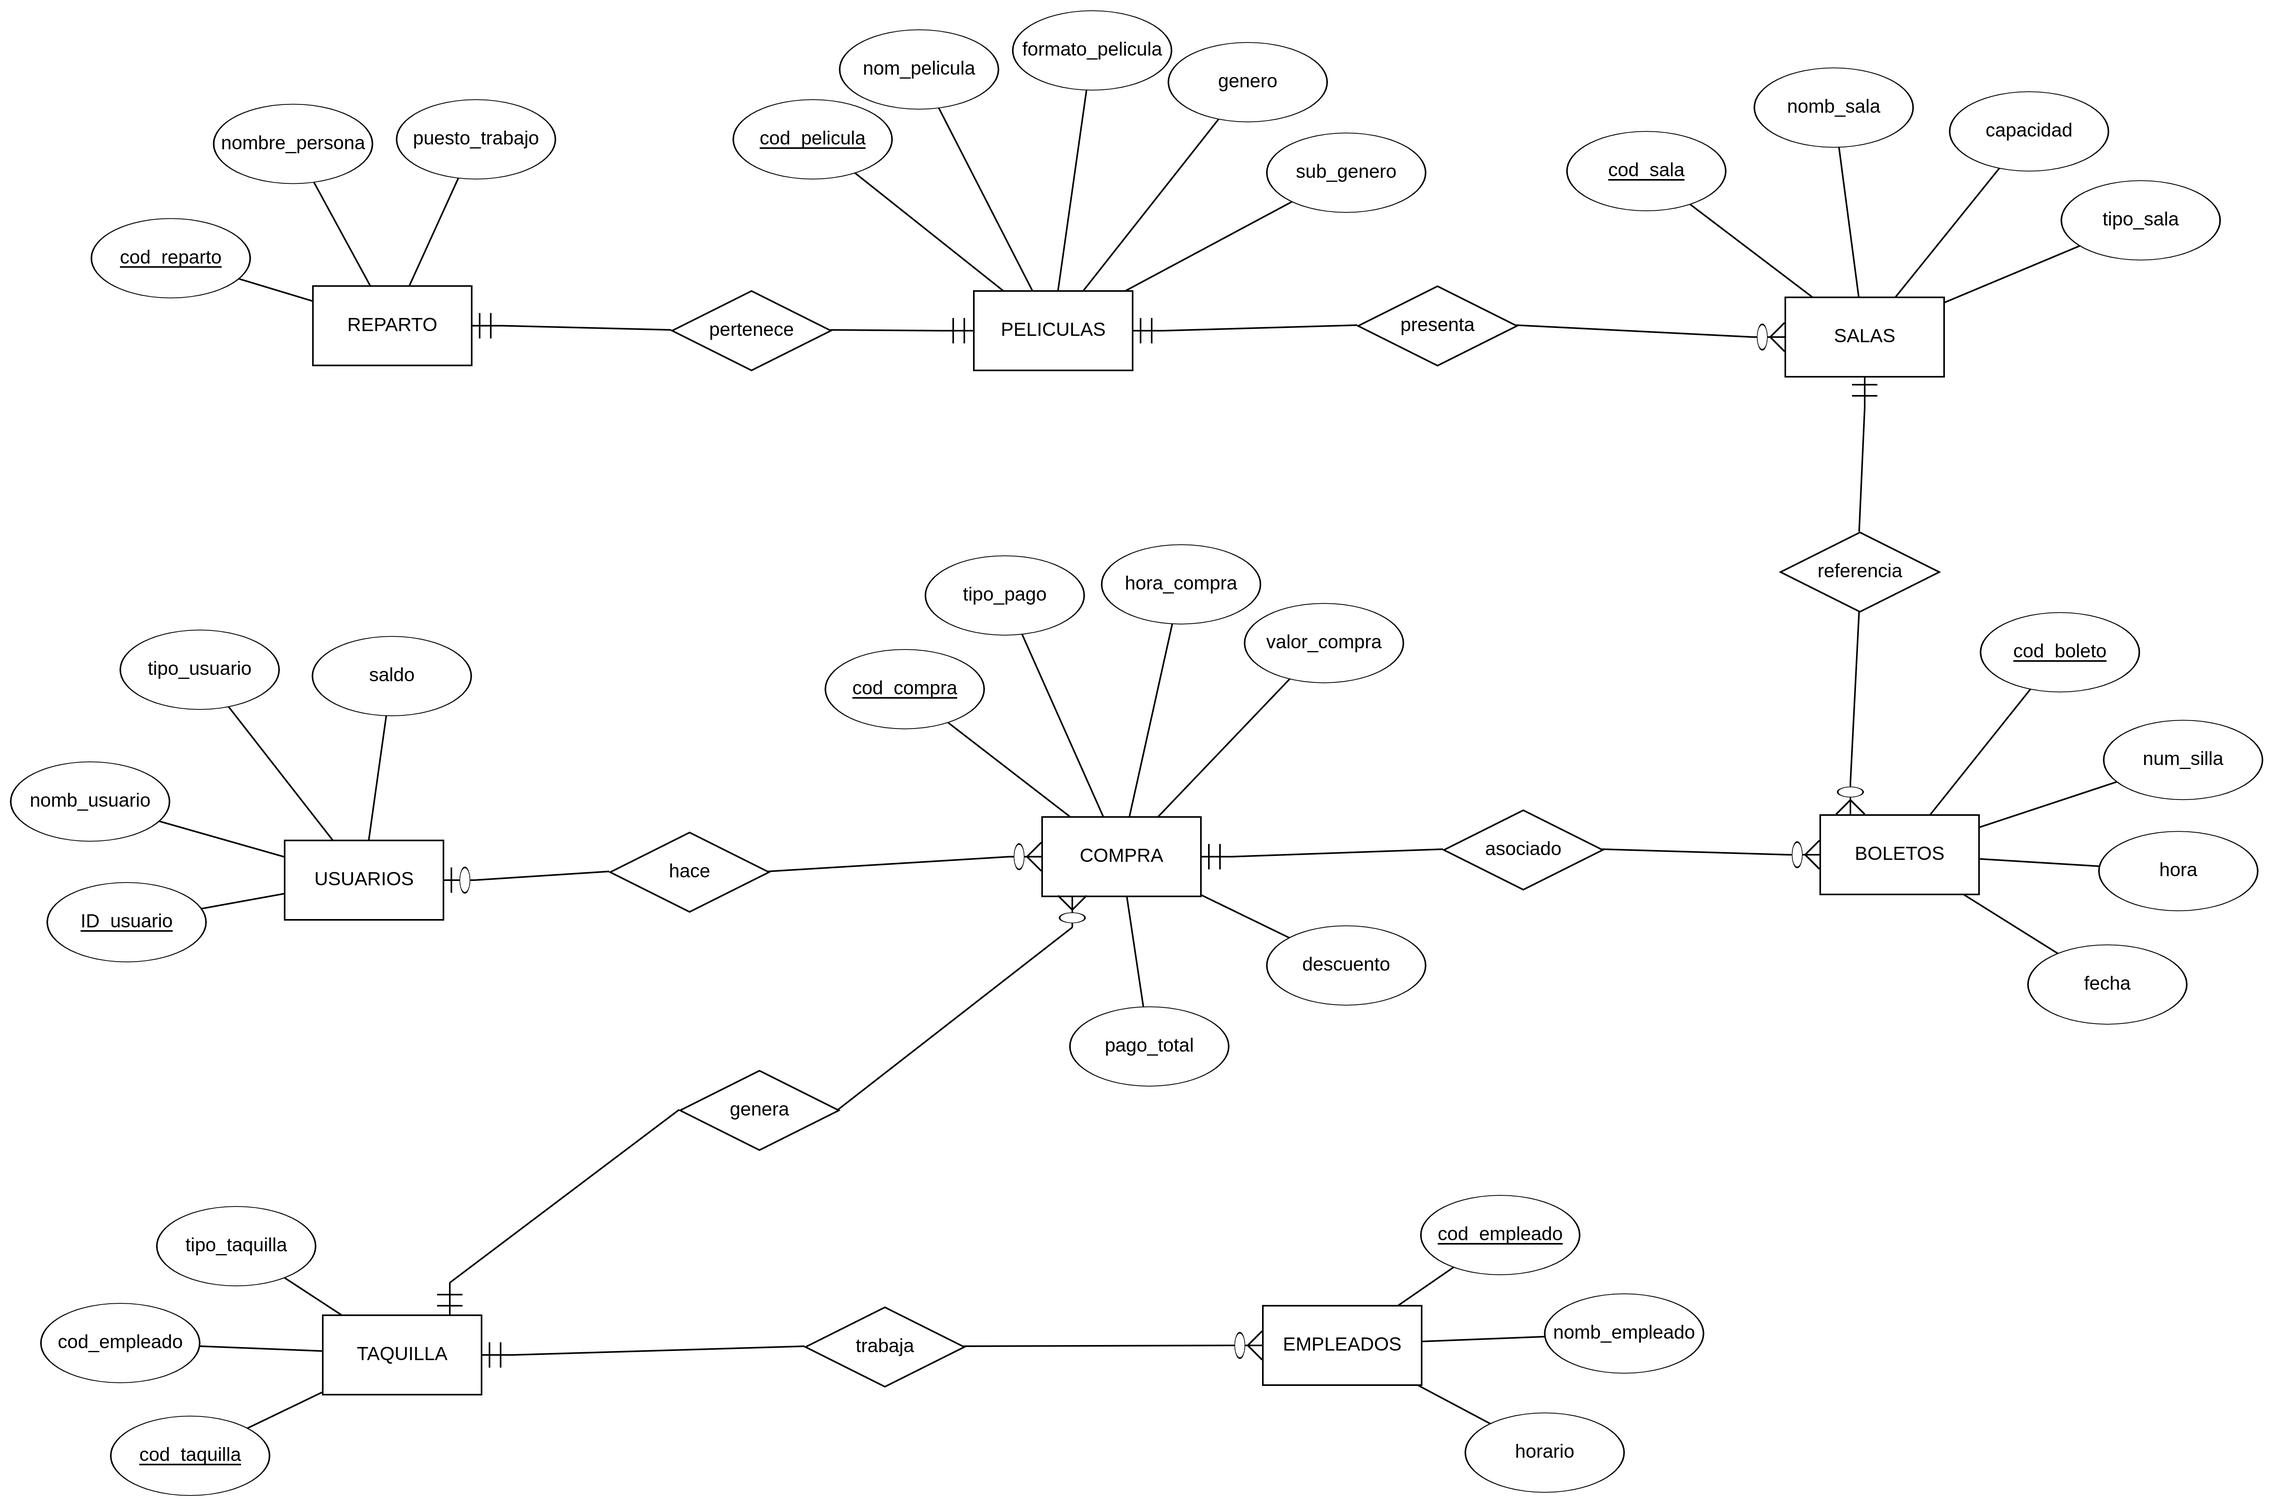
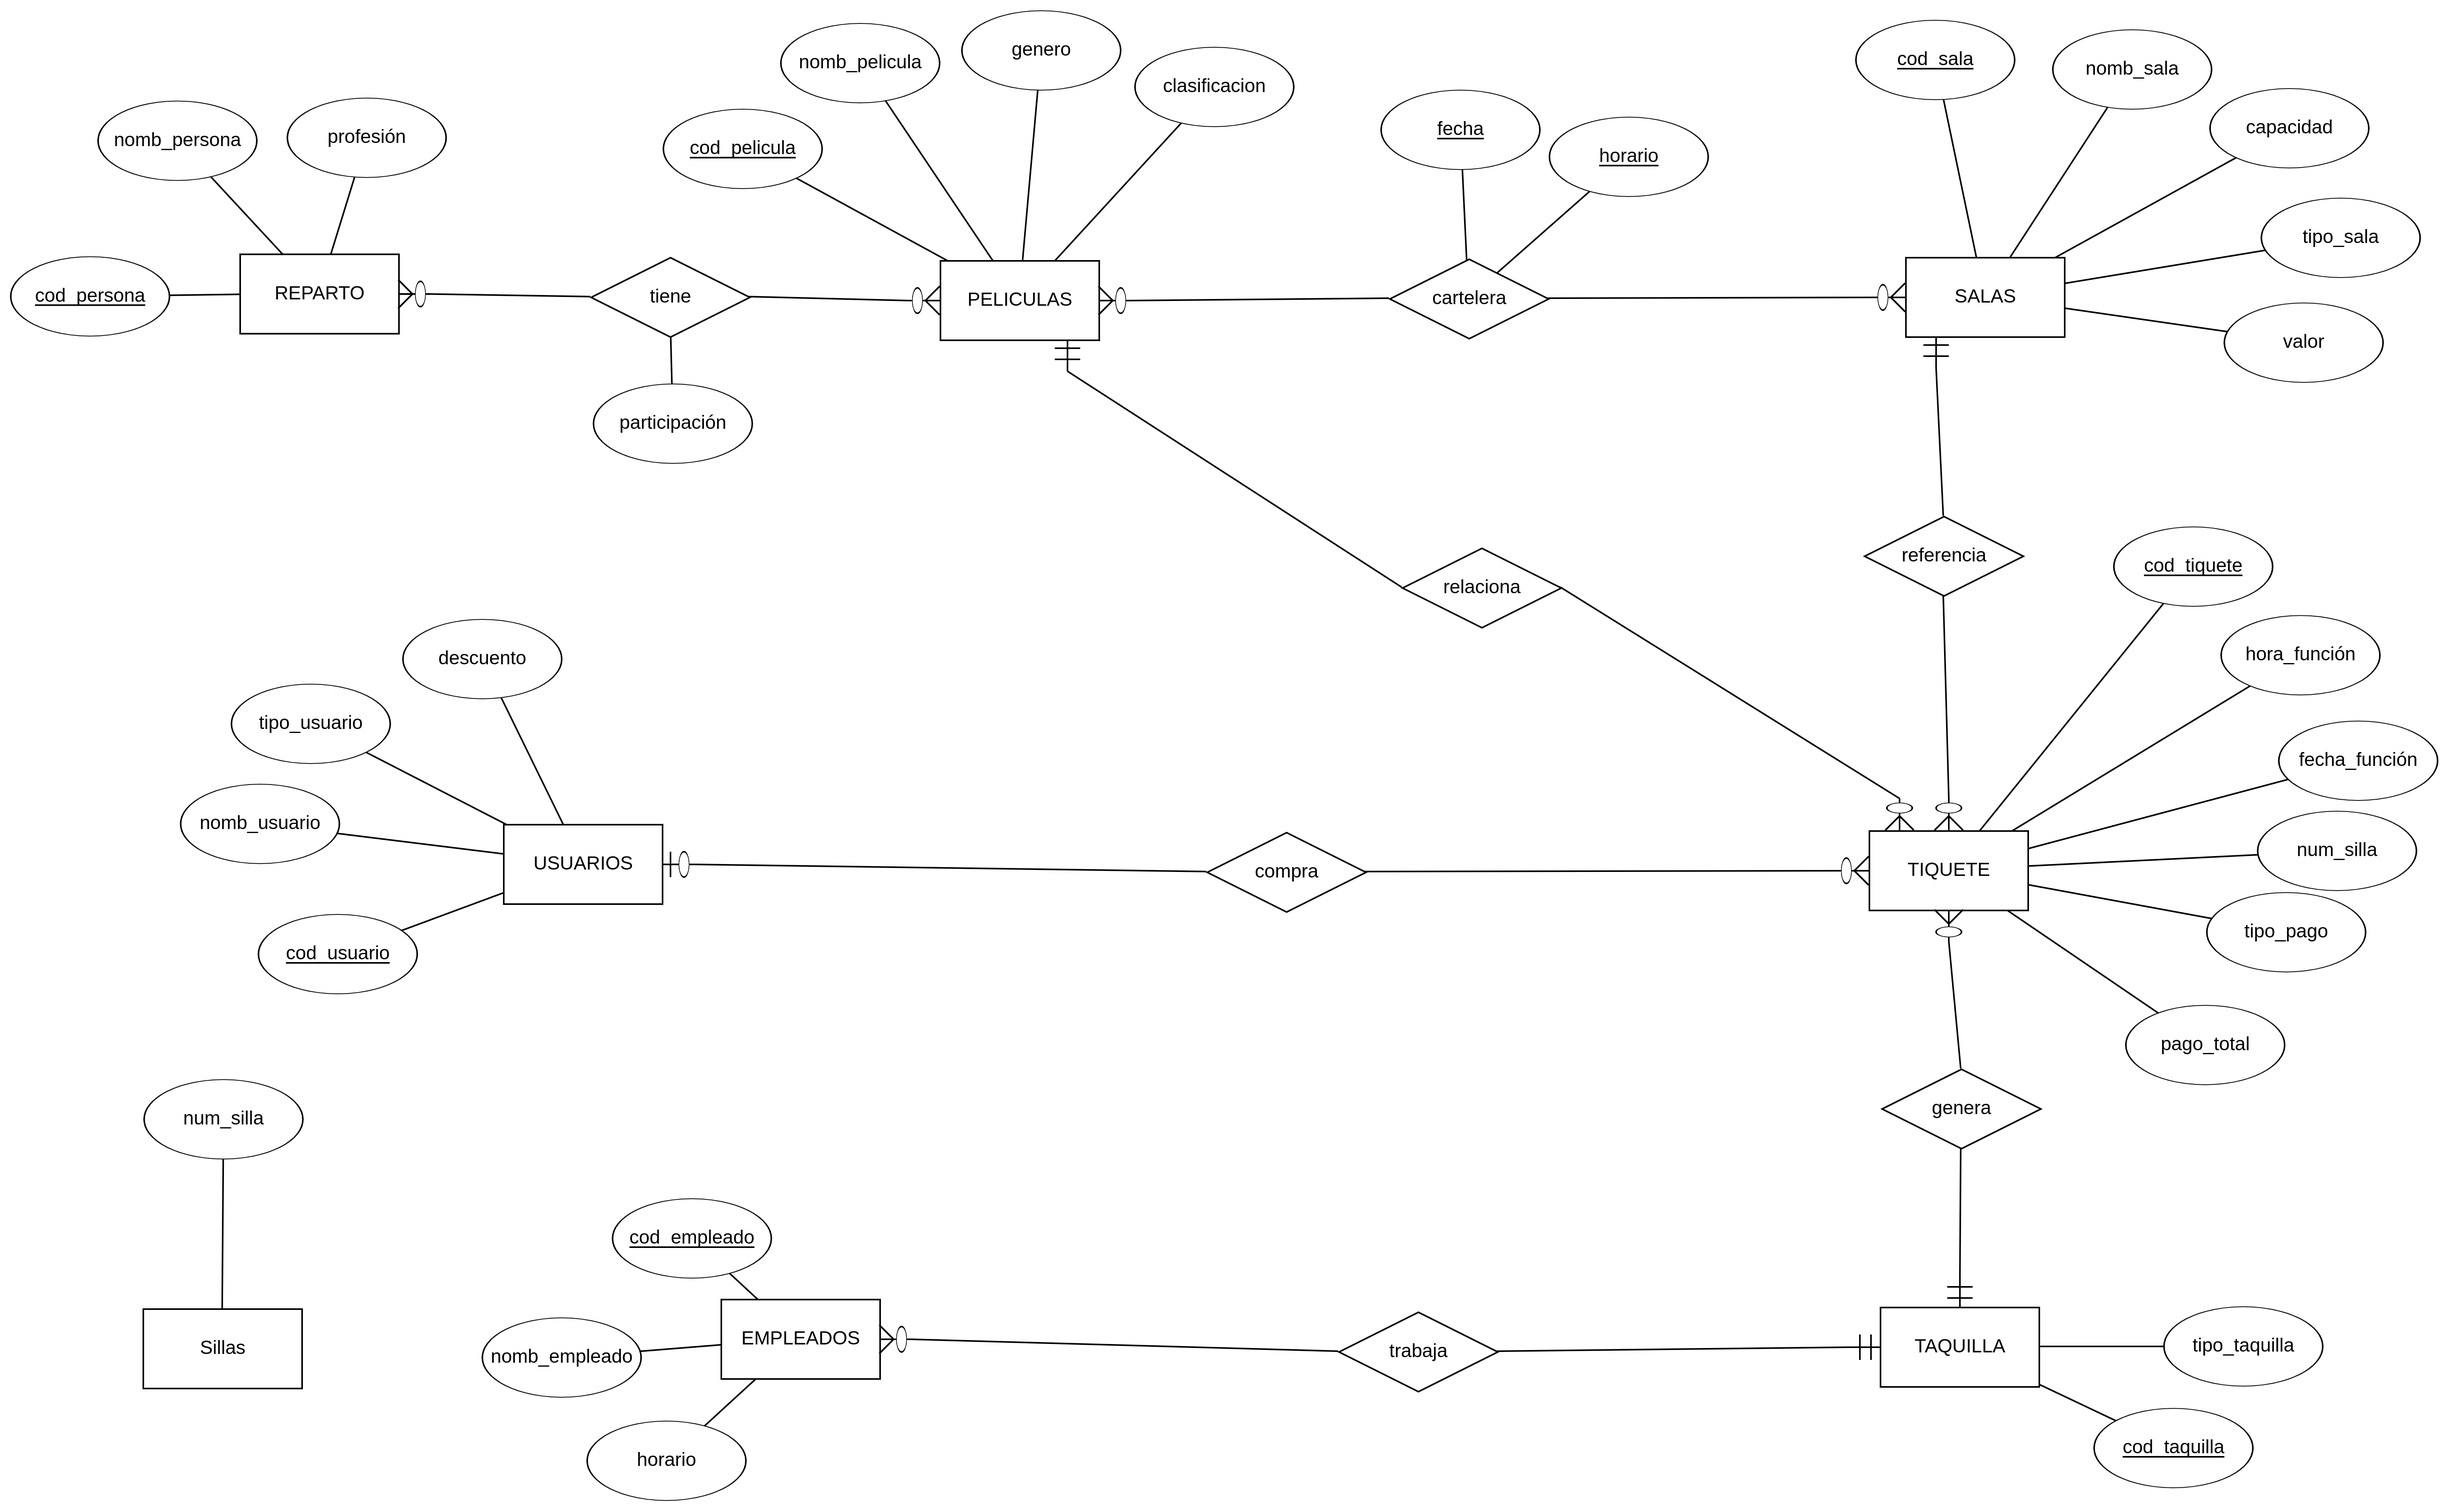
Correxión de modelo ER y creación de datos

diff --git a/Prueba.php b/Prueba.php
@@ -1,0 +1,56 @@
+<?php
+    try{
+        $conectar= new PDO('pgsql:host=localhost;dbname=cinenet', 'postgres', 'postgres') or die ("Error de Conexion".pg_last_error());
+}catch(Exception $e){
+    echo "Error" + $e;
+}
+// $registros = $result->prepare( $query ); //Preparamos la consulta
+// $registros->execute( array(":usuario" => $usuario) ); //Le pasamos el valor al marcador, esto es un array por lo que soporta tanto valores requiera la query, separador por coma
+// $registros = $registros->fetchAll( PDO::FETCH_OBJ );
+
+?>
+
+<!DOCTYPE html>
+<html lang="en">
+<head>
+    <meta charset="UTF-8">
+    <meta name="viewport" content="width=device-width, initial-scale=1.0">
+    <title>Prueba</title>
+    <link rel="stylesheet" href="https://stackpath.bootstrapcdn.com/bootstrap/4.5.0/css/bootstrap.min.css" integrity="sha384-9aIt2nRpC12Uk9gS9baDl411NQApFmC26EwAOH8WgZl5MYYxFfc+NcPb1dKGj7Sk" crossorigin="anonymous">
+</head>
+<body>
+    <h1 align="center"> Cinenet Prueba</h1>
+    <br>
+
+<div class="container" border='100'>
+    <table class="table">
+    <thead class="bg-info">
+        <tr>
+        <th scope="col">CÓDIGO</th>
+        <th scope="col">NOMBRE</th>
+        <th scope="col">EDAD</th>
+        <th scope="col">EMAIL</th>
+        </tr>
+    </thead>
+    <tbody>
+
+      <?php
+        $result = $conectar->query("SELECT * FROM peliculas");
+            foreach($result as $row){
+            ?>
+        <tr>
+        
+            <td> <?php echo $row['cod_pelicula'] ?> </td>
+            <td> <?php echo $row['nomb_pelicula'] ?> </td>
+            <td> <?php echo $row['genero'] ?> </td>
+            <td> <?php echo $row['clasificacion'] ?> </td>
+        </tr>
+        <?php
+            }
+        ?>
+    </tbody>
+    </table>
+</div>
+
+</body>
+</html>

diff --git a/index.php b/index.php
@@ -1,0 +1,50 @@
+<?php
+    include("conexion_db.php");
+    $conectar = conectar();
+?>
+
+<!DOCTYPE html>
+<html lang="en">
+<head>
+    <meta charset="UTF-8">
+    <meta name="viewport" content="width=device-width, initial-scale=1.0">
+    <title>CineNet Software</title>
+    <link rel="icon" type="imagen/png" href="img/icono.png" />
+    <link rel="stylesheet" href="https://stackpath.bootstrapcdn.com/bootstrap/4.5.0/css/bootstrap.min.css" integrity="sha384-9aIt2nRpC12Uk9gS9baDl411NQApFmC26EwAOH8WgZl5MYYxFfc+NcPb1dKGj7Sk" crossorigin="anonymous">
+</head>
+<body>
+    <h1 align="center">CineNet Software</h1>
+    <br>
+
+    <div class="container" border='100'>
+    <table class="table">
+    <thead class="bg-info">
+        <tr>
+        <th scope="col">FACTURACIÓN</th>
+        <th scope="col">REGISTROS</th>
+        <th scope="col">CARTELERA</th>
+        <th scope="col">FAQ</th>
+        </tr>
+    </thead>
+    <tbody>
+
+    <?php
+        $result = $conectar->query("SELECT * FROM peliculas");
+            foreach($result as $row){
+            ?>
+        <tr>
+        
+            <td> <?php echo $row['cod_pelicula'] ?> </td>
+            <td> <?php echo $row['nomb_pelicula'] ?> </td>
+            <td> <?php echo $row['genero'] ?> </td>
+            <td> <?php echo $row['clasificacion'] ?> </td>
+        </tr>
+        <?php
+            }
+        ?>
+    </tbody>
+    </table>
+</div>
+
+</body>
+</html>

diff --git a/conexion_db.php b/conexion_db.php
@@ -1,0 +1,9 @@
+<?php
+    function conectar(){
+        try{
+            $conectar= new PDO('pgsql:host=localhost;dbname=cinenet', 'postgres', 'postgres') or die ("Error de Conexion".pg_last_error());
+          }catch(Exception $e){
+            echo "Error" + $e;
+        }
+    }
+?>
